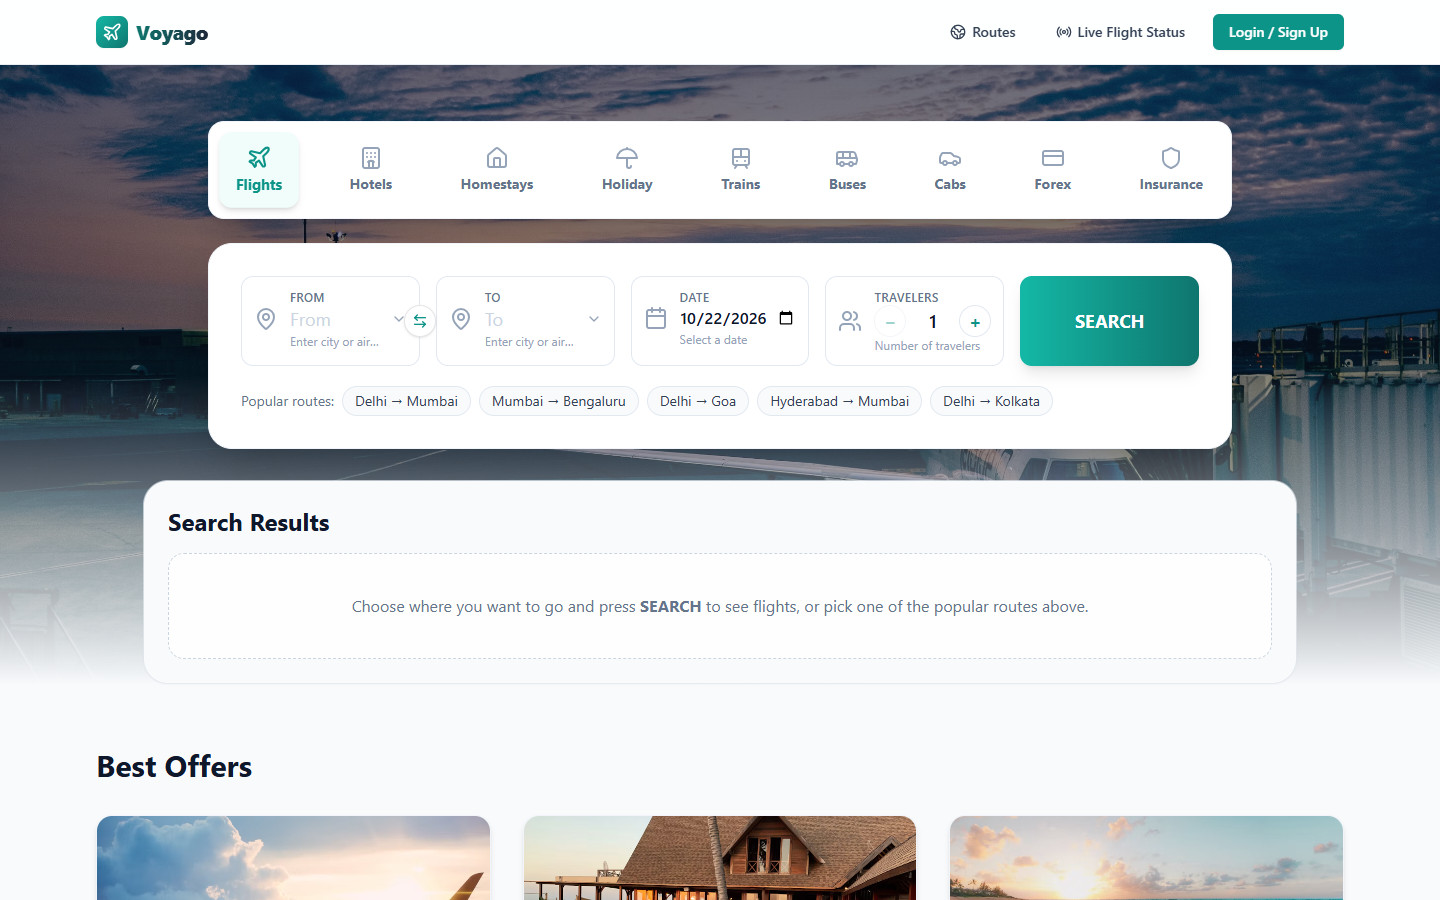
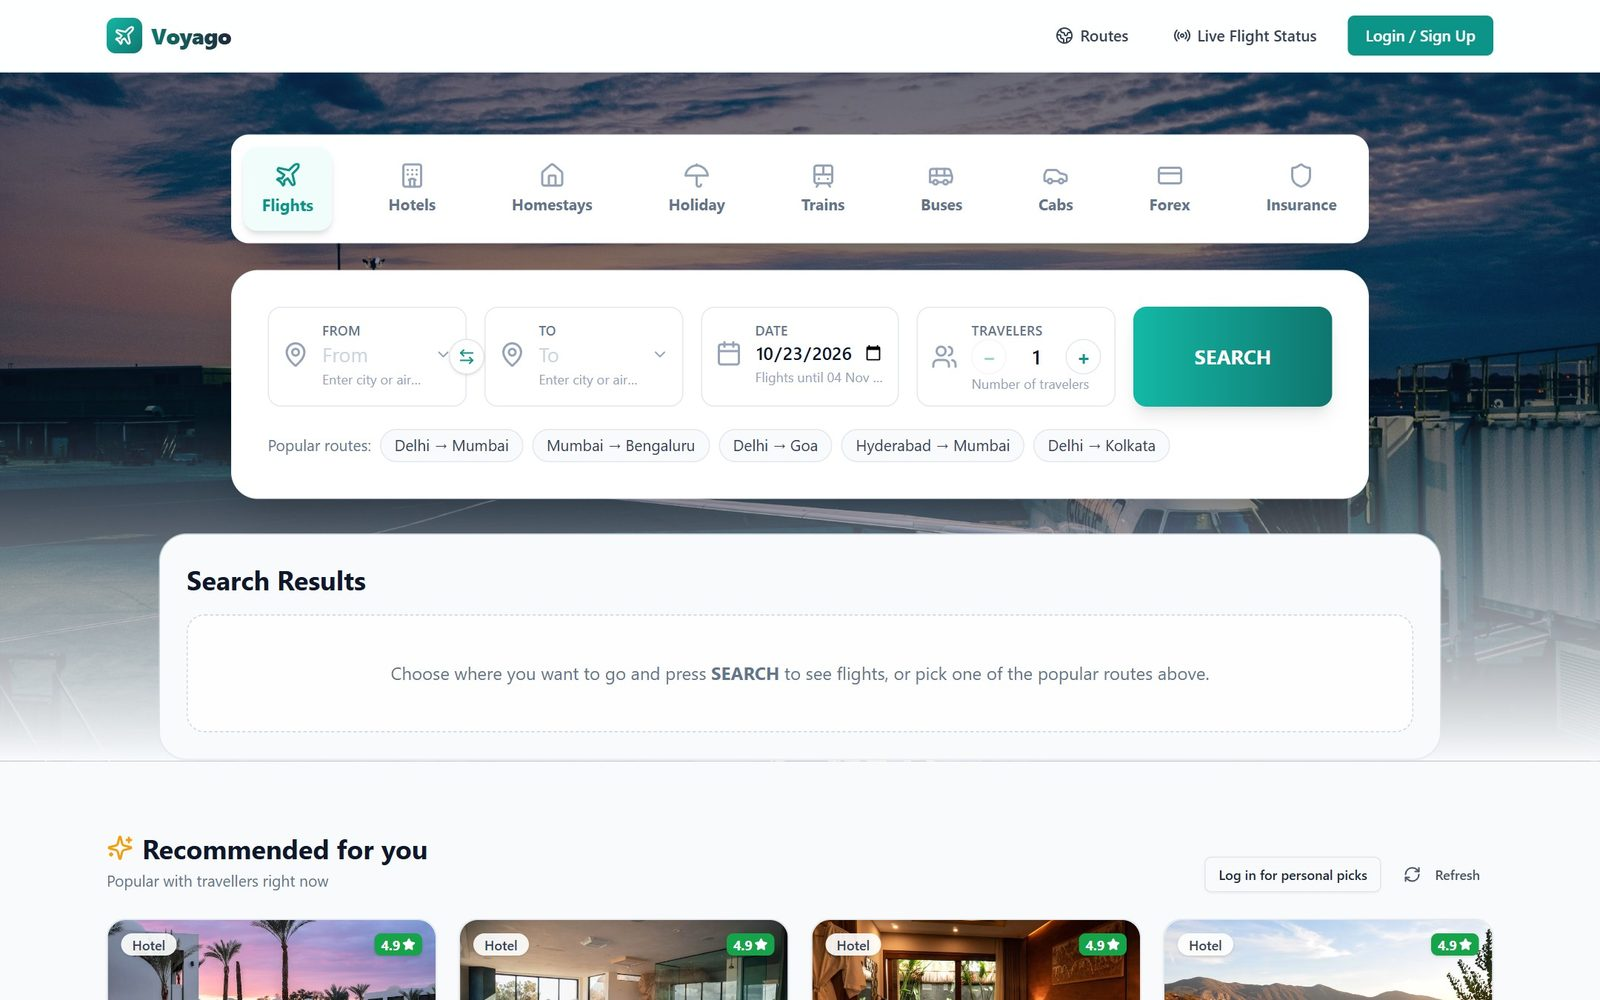
Replace Voyago screenshots with 7 curated project screens
- Home, flight search, booking, recommendations, cancellation refund, live tracking and admin dashboard
- Remove the earlier live-site screenshots

diff --git a/src/components/FeaturedProjects.tsx b/src/components/FeaturedProjects.tsx
@@ -93,7 +93,12 @@ import bsResult from '../assets/hackathon/dogfood-result.jpeg';
 
 // Voyago Images
 import voyagoImg1 from '../assets/Voyago/home.jpg';
-import voyagoImg2 from '../assets/Voyago/offers.jpg';
+import voyagoImg2 from '../assets/Voyago/search-results.jpg';
+import voyagoImg3 from '../assets/Voyago/flight-booking.jpg';
+import voyagoImg4 from '../assets/Voyago/recommendations.jpg';
+import voyagoImg5 from '../assets/Voyago/cancel-refund.jpg';
+import voyagoImg6 from '../assets/Voyago/live-tracking.jpg';
+import voyagoImg7 from '../assets/Voyago/admin-dashboard.jpg';
 
 type ProjectCategory = 'Full Stack' | 'Backend' | 'Java/Spring Boot' | 'AI/ML' | 'Security' | 'Web App' | 'Hackathon';
 
@@ -330,7 +335,7 @@ const PROJECTS: Project[] = [
       "Deployed with the Spring Boot API in Docker on Render and the Next.js front end on Vercel, backed by MongoDB Atlas"
     ],
     githubUrl: "https://github.com/PawanBhandari03/Voyago",
-    snapshots: [voyagoImg1, voyagoImg2],
+    snapshots: [voyagoImg1, voyagoImg2, voyagoImg3, voyagoImg4, voyagoImg5, voyagoImg6, voyagoImg7],
     architectureImg: voyagoImg1
   },
   {
